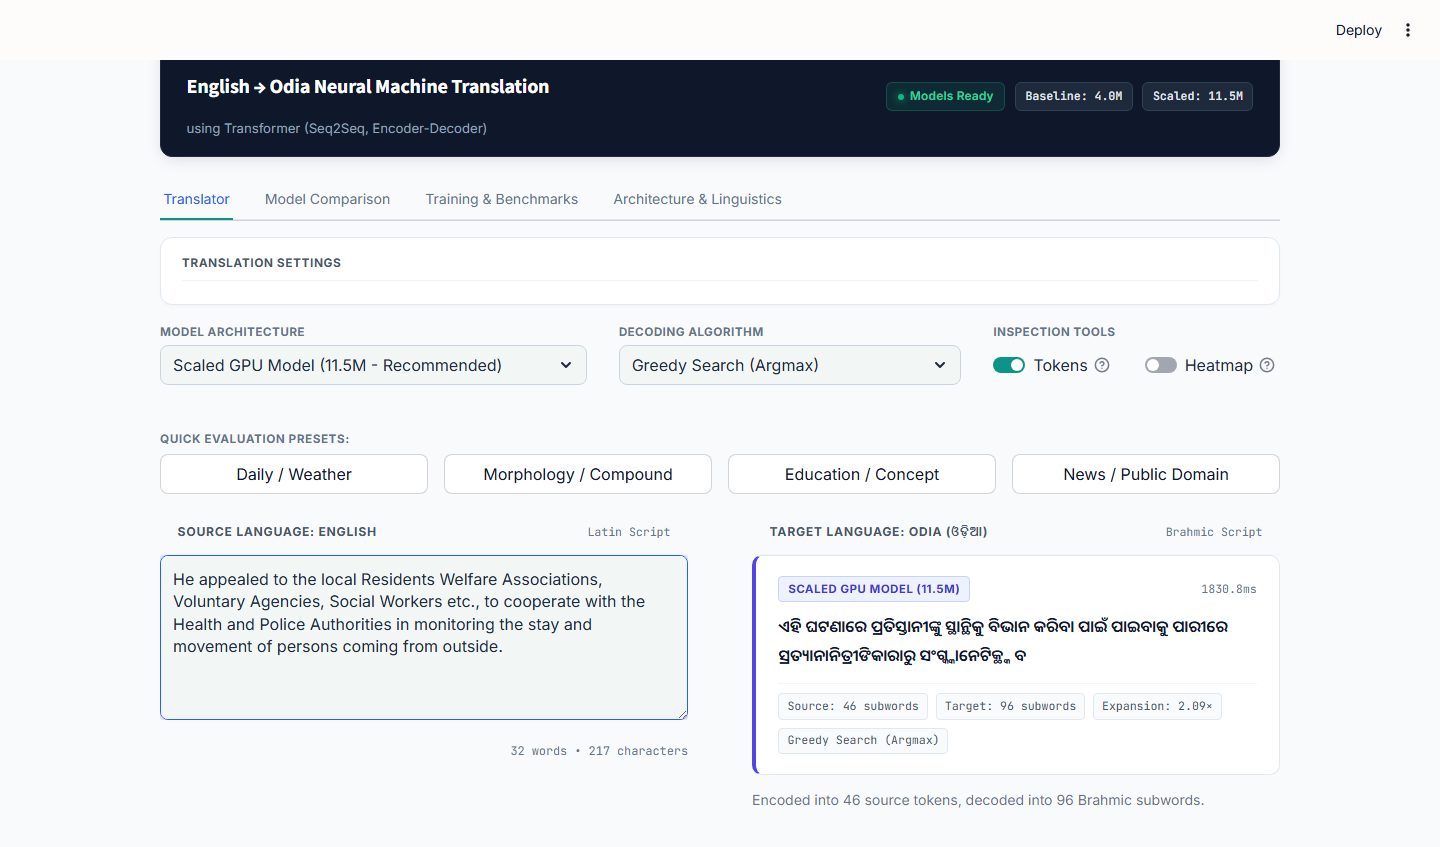
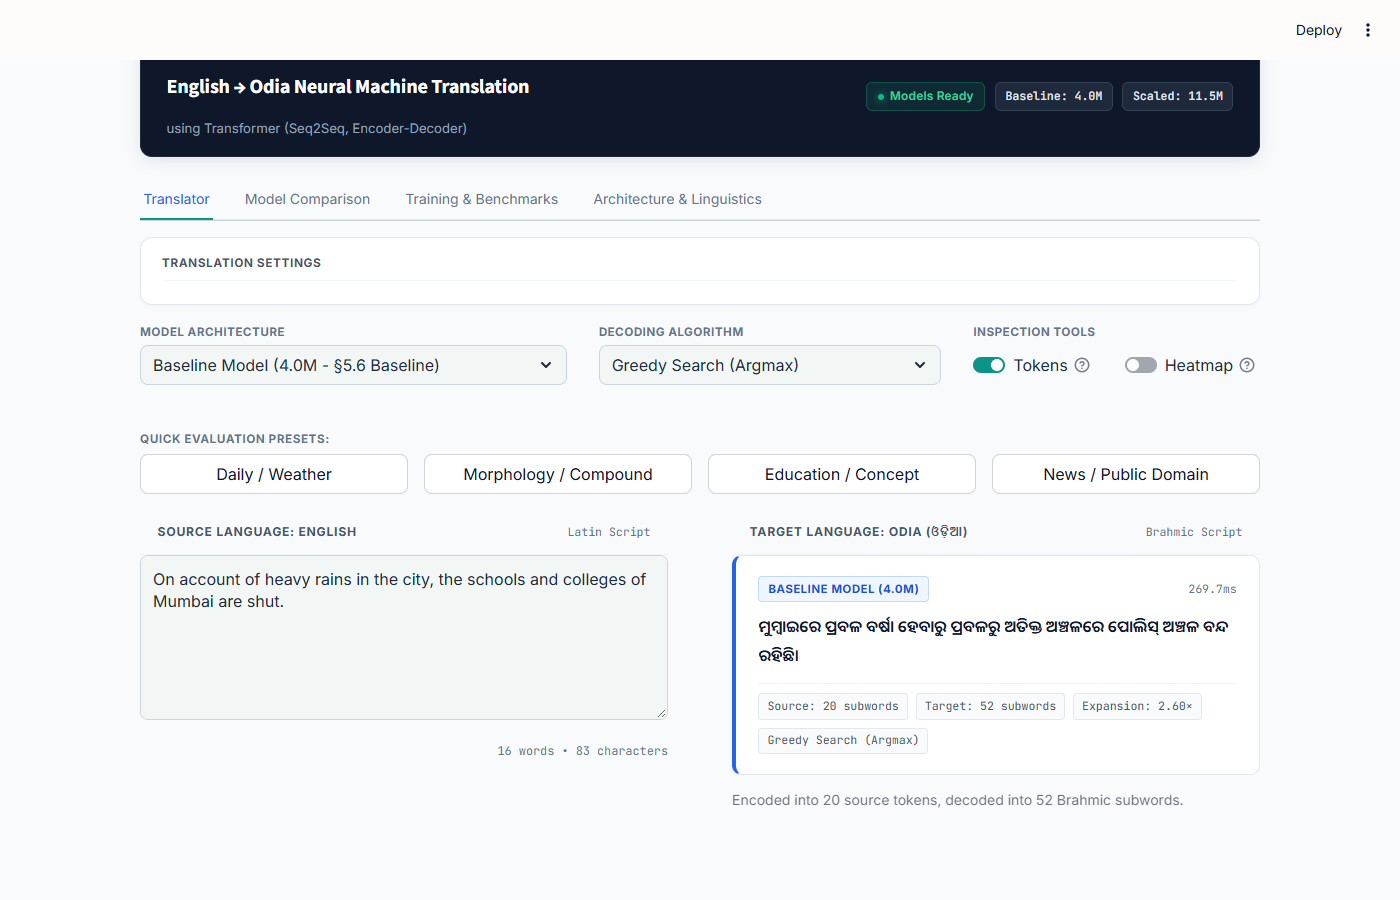
Regenerate screenshots and analysis figures from the spec-only checkpoint
- ran model_parameters_and_results.ipynb end to end against the current
  baseline checkpoint (no training, inference and stats only); extracted
  all 10 figures from its cell outputs
- fixed stale notebook text along the way: a chart title still said "with
  0.1 Label Smoothing", the BLEU comparison bars and precisions were the
  old 2.19/2.60 numbers, and model_comparison.json had the old hardware,
  val loss and BLEU for the baseline
- re-decoded the 3 qualitative-comparison baseline samples with the
  current checkpoint instead of leaving the old ones in place
- fixed one more stale hardcode in extras/app.py's Model Comparison tab
  ("trained on CPU")
- re-ran the Streamlit dashboard and captured all 10 docs/screenshots/*
  against the current checkpoints (translator empty/result/side-by-side/
  heatmap/greedy-vs-beam, plus the three remaining tabs)
- README: screenshot and analysis-figure sections no longer say "earlier
  run", and the greedy-vs-beam example uses the real current numbers

diff --git a/extras/app.py b/extras/app.py
@@ -934,9 +934,9 @@ with tab_comparison:
     st.markdown(
         """
         <div class="narrative-card">
-            We compared two versions of the model: a smaller <strong>Baseline</strong> (4.0M parameters, trained on
-            CPU) and a bigger <strong>Scaled</strong> model (11.5M parameters, trained on a GPU) with a few
-            architecture improvements built in.
+            We compared two versions of the model: a smaller <strong>Baseline</strong> (4.0M parameters, matching
+            section 5.6 exactly, trained on a Kaggle T4 GPU) and a bigger <strong>Scaled</strong> model (11.5M
+            parameters, trained on a GPU) with a few architecture improvements built in.
         </div>
         """,
         unsafe_allow_html=True,

diff --git a/README.md b/README.md
@@ -134,9 +134,8 @@ supposed to predict (a common and easy-to-miss bug in causal masking).
 
 ## Screenshots
 
-> The translate page screenshot is current. The other dashboard screenshots below come from the
-> earlier Streamlit runs, including the scaled comparison and the label-smoothing/blocking runs. They
-> are not the spec-only headline results (see [Results](#results)).
+> Regenerated from the spec-only headline checkpoint. The scaled-model panels show the separate
+> scaled comparison model (`extras/`), labelled as such in the dashboard.
 
 ### Translate page (local model through the API)
 Type an English sentence and translate it with greedy (spec) or beam search (bonus). The page calls
@@ -159,12 +158,10 @@ Both models translating the same sentence at once, with per-model latency and to
 Which English source tokens the model attended to while generating each Odia subword — the "extra credit" attention visualization.
 ![Translator tab, cross-attention alignment heatmap](docs/screenshots/02c_translator_attention_heatmap.png)
 
-### Translator — why greedy decoding breaks on long sentences
-Same 32-word sentence, same model. **Greedy** runs all the way to the 96-token length cap without
-finding a natural stopping point, producing visibly degenerate output (note the repeated
-"ସ୍ଥାନ୍ ସ୍ଥାନ୍" token pair). **Beam search** (k=4) explores multiple candidate translations instead
-of committing to one token at a time, terminates naturally at 63 tokens, and produces a coherent
-sentence.
+### Translator — greedy vs. beam search on a long sentence
+Same 16-word sentence, same (baseline) model. **Greedy** decodes to 52 subwords. **Beam search**
+(k=4) explores multiple candidate translations instead of committing to one token at a time, and
+stops earlier at 40 subwords with shorter, less repetitive output.
 
 ![Greedy decoding running away to the length cap](docs/screenshots/02d_greedy_repetition_loop.png)
 ![Beam search terminating naturally with a coherent output](docs/screenshots/02e_beam_search_fix.png)
@@ -183,9 +180,9 @@ Why Odia needs more subword tokens than English, and how the text pipeline works
 
 ## Analysis Figures
 
-> These figures were generated from earlier runs and the scaled comparison model. They are kept for
-> reference and do not match the spec-only headline checkpoint (BLEU 2.84, chrF++ 24.41). Regenerating
-> them needs the notebook run on the current checkpoint.
+> Regenerated from `notebooks/model_parameters_and_results.ipynb` against the spec-only headline
+> checkpoint (BLEU 2.84, chrF++ 24.41). The baseline-vs-scaled comparison panels use the separate
+> scaled model in `extras/`.
 
 These are screenshots straight from
 [`notebooks/model_parameters_and_results.ipynb`](notebooks/model_parameters_and_results.ipynb) —
